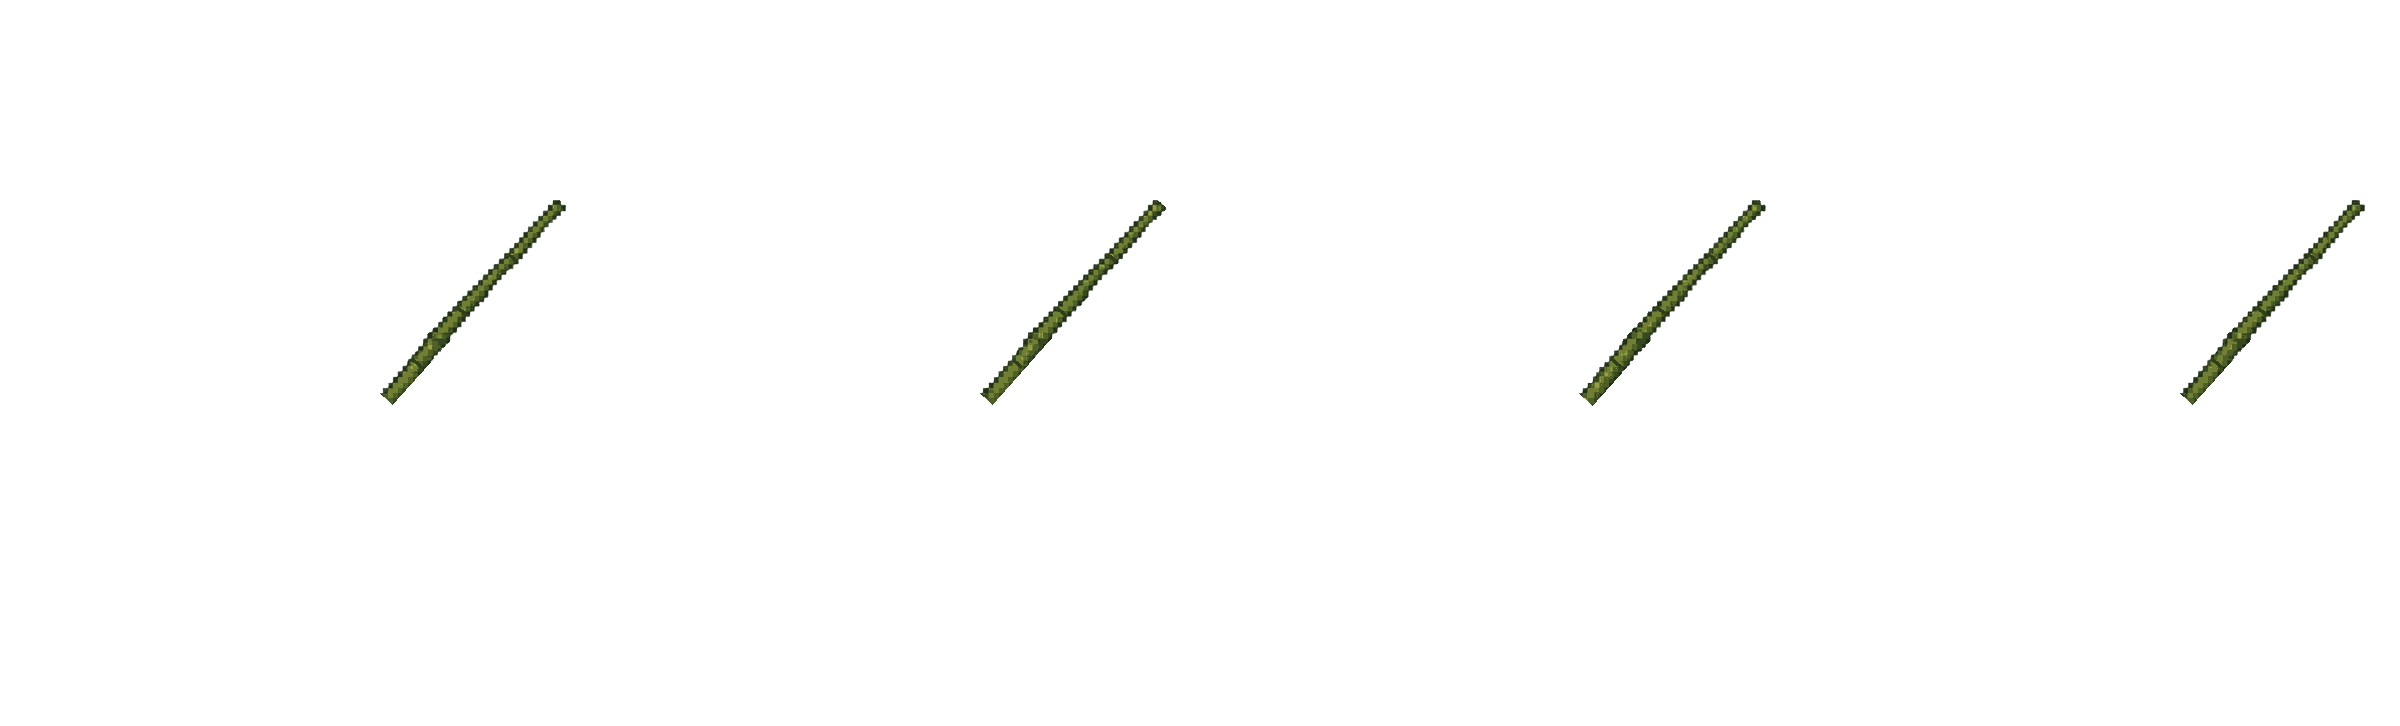
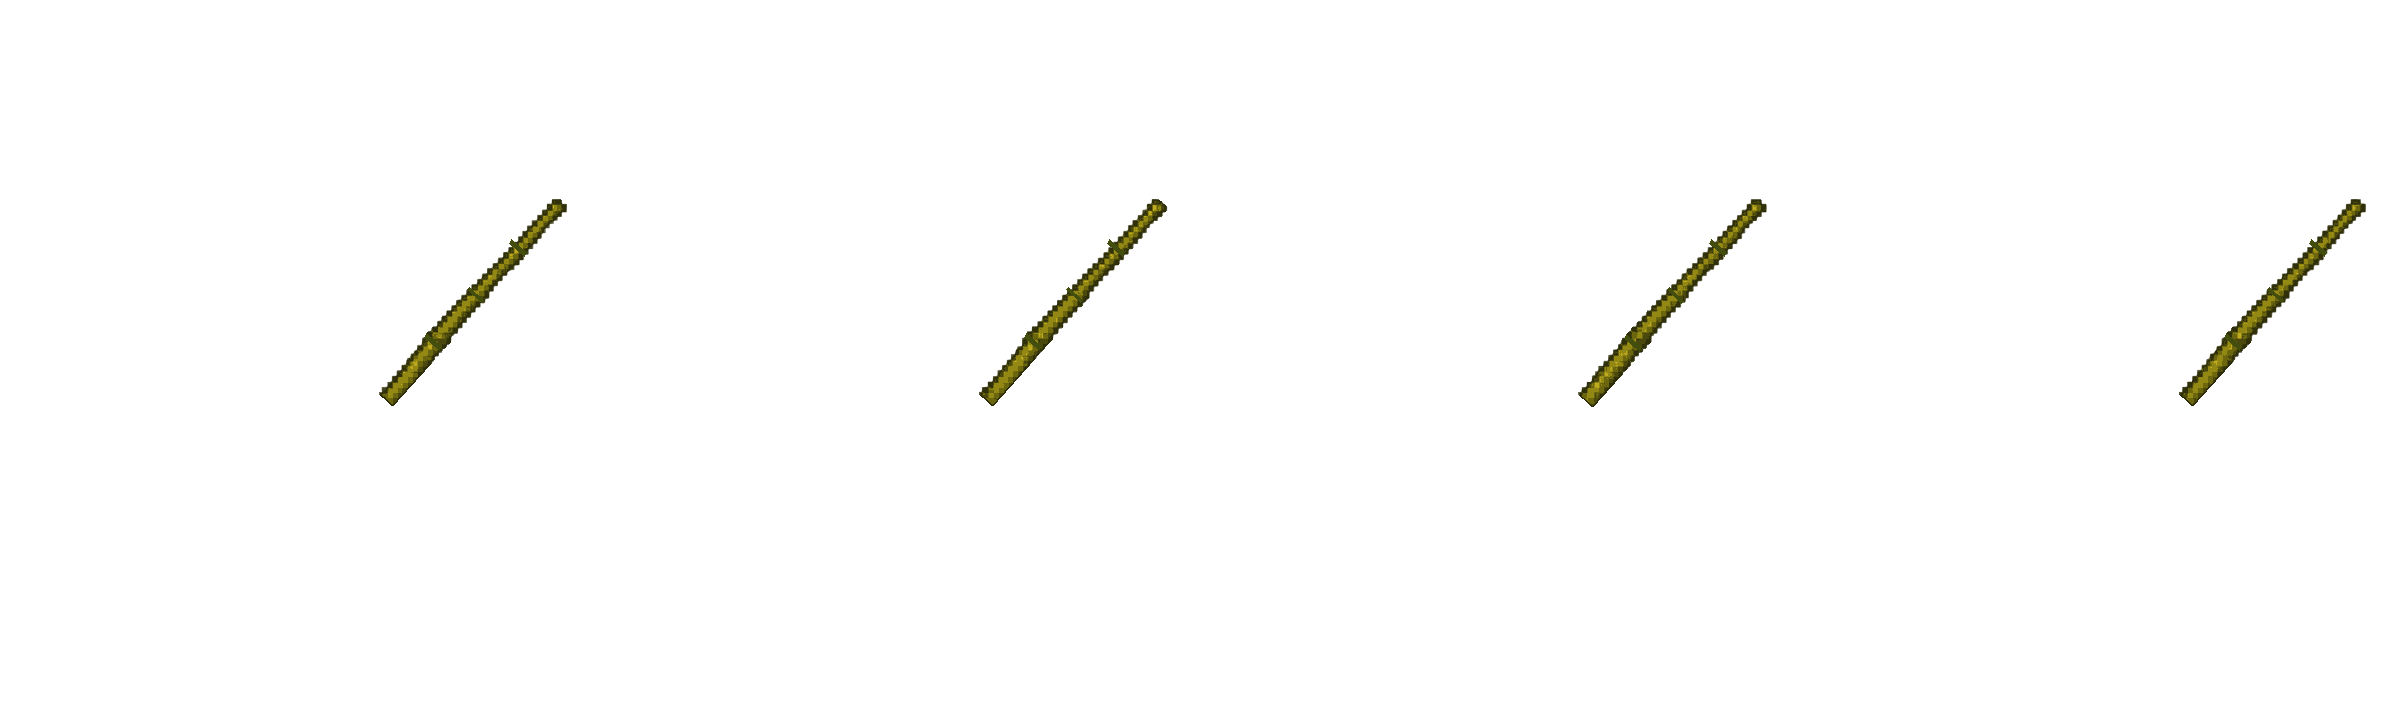
Apply generated bamboo design to rod sprites

diff --git a/webapp/scripts/split_fisher_rod.py b/webapp/scripts/split_fisher_rod.py
@@ -9,7 +9,7 @@ from __future__ import annotations
 
 from pathlib import Path
 
-from PIL import Image, ImageChops, ImageDraw, ImageOps
+from PIL import Image, ImageChops, ImageDraw, ImageFilter, ImageOps
 
 
 ROOT = Path(__file__).resolve().parents[1]
@@ -73,27 +73,40 @@ def split_sheet(state: str) -> None:
 
 
 def make_bamboo_rod(rod: Image.Image, state: str) -> Image.Image:
-    """Перекрасить удилище и добавить поперечные бамбуковые узлы."""
+    """Перенести генеративный дизайн бамбука на исходную траекторию."""
     palette = (
-        (36, (35, 48, 25)),
-        (64, (54, 72, 31)),
-        (92, (78, 96, 39)),
-        (122, (112, 127, 49)),
-        (154, (151, 159, 66)),
-        (190, (190, 190, 91)),
-        (256, (220, 211, 122)),
+        (36, (48, 48, 10)),
+        (64, (74, 72, 12)),
+        (92, (108, 103, 14)),
+        (122, (148, 136, 20)),
+        (154, (190, 169, 31)),
+        (190, (230, 202, 55)),
+        (256, (255, 231, 108)),
     )
     bamboo = Image.new("RGBA", rod.size)
     source_pixels = rod.load()
     bamboo_pixels = bamboo.load()
+    source_alpha = rod.getchannel("A")
+    # Бамбуковый стебель немного толще деревянного удилища, но центр и
+    # точки крепления остаются на исходной траектории.
+    bamboo_alpha = source_alpha.filter(ImageFilter.MaxFilter(3))
+    bamboo_alpha_pixels = bamboo_alpha.load()
 
     for y in range(rod.height):
         for x in range(rod.width):
-            red, green, blue, alpha = source_pixels[x, y]
+            alpha = bamboo_alpha_pixels[x, y]
             if not alpha:
                 continue
-            luminance = (red * 299 + green * 587 + blue * 114) // 1000
-            color = next(color for limit, color in palette if luminance < limit)
+            red, green, blue, source_pixel_alpha = source_pixels[x, y]
+            if source_pixel_alpha:
+                luminance = (
+                    red * 299 + green * 587 + blue * 114
+                ) // 1000
+                color = next(
+                    color for limit, color in palette if luminance < limit
+                )
+            else:
+                color = (45, 45, 9)
             bamboo_pixels[x, y] = (*color, alpha)
 
     node_mask = Image.new("L", rod.size)
@@ -105,10 +118,10 @@ def make_bamboo_rod(rod: Image.Image, state: str) -> Image.Image:
         perpendicular_x = -dy / length
         perpendicular_y = dx / length
         offset = frame_index * FRAME_WIDTH
-        for position in (0.28, 0.56, 0.82):
+        for position in (0.24, 0.48, 0.72):
             center_x = tip[0] + dx * position + offset
             center_y = tip[1] + dy * position
-            radius = 8
+            radius = 10
             node_draw.line(
                 (
                     (
@@ -121,16 +134,23 @@ def make_bamboo_rod(rod: Image.Image, state: str) -> Image.Image:
                     ),
                 ),
                 fill=255,
-                width=3,
+                width=5,
             )
 
-    nodes = ImageChops.multiply(node_mask, bamboo.getchannel("A"))
+    # Коленца слегка выступают за основной стебель, как в сгенерированном
+    # дизайн-референсе, но не меняют его ось.
+    bamboo_alpha = ImageChops.lighter(
+        bamboo.getchannel("A"),
+        node_mask,
+    )
+    bamboo.putalpha(bamboo_alpha)
+    nodes = ImageChops.multiply(node_mask, bamboo_alpha)
     node_pixels = nodes.load()
     for y in range(bamboo.height):
         for x in range(bamboo.width):
             if node_pixels[x, y]:
                 alpha = bamboo_pixels[x, y][3]
-                bamboo_pixels[x, y] = (48, 63, 27, alpha)
+                bamboo_pixels[x, y] = (67, 77, 14, alpha)
     return bamboo
 
 
